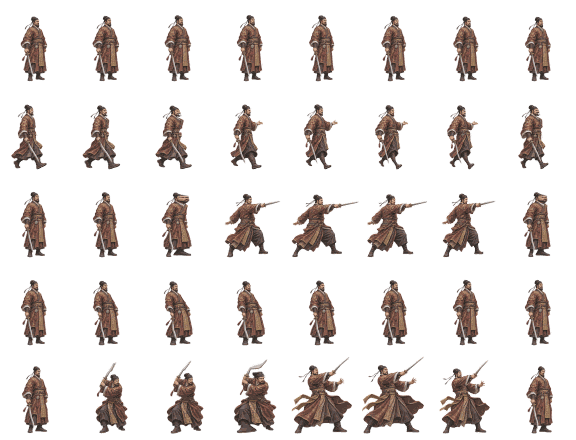
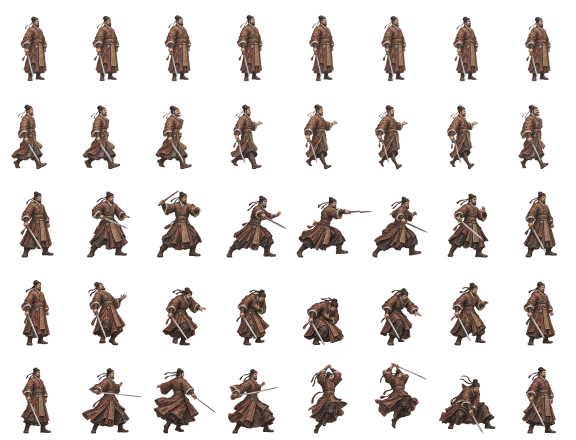
Show items still, repaint 萬震山's strike, hurt and special, and add the youth's and 求敗's art
Items: the producer wants still pictures. itemPicture always returns the
still, the hover and tap playback is gone, the 30 loops are deleted and
tools/item-art.py writes only stills.

萬震山 (Q-N34 test): his strike, hurt and special rows are repainted and
approved; idle and walk are unchanged. The pack's sheet and checksums are
updated and his game files regenerated with tools/roster-art.py.

The youth and 獨孤求敗: a character card and a sprite sheet each, in
asset-gen/story-characters/, for later (roadmap 2.3). 求敗's were made
under the old rule that he is never seen; Q-N68 asks whether to repaint
them to match the v1.0 portrait.

Claude-Session: https://claude.ai/code/session_01WcCcPMMNRDyiegqFEaWrsS

diff --git a/game/src/ui/item-art.js b/game/src/ui/item-art.js
@@ -1,86 +1,9 @@
-// Item pictures. Each item has a still (item-<id>.webp) and, painted from the same sheet, a short
-// animated loop (item-<id>-motion.webp, eight frames of about 0.8 s). A panel shows the still; the
-// loop plays while the item's row, tile or slot is pointed at or holds the keyboard focus, for two
-// turns after a tap (phones have no pointer to rest), and for as long as the item is the one
-// picked (the armory's inspector, the dice cup that was won). The loop is fetched the first time
-// it plays. With reduced motion only stills are shown.
+// Item pictures: one still each (item-<id>.webp), cut from the painted sheets by tools/item-art.py.
+// Items are shown still, never animated (the producer's decision of 2026-11-21).
 import { art } from './artwork.js';
-import { ITEMS } from '../rules/game.js';
 
-// 古墓長劍 keeps its old still picture; it has no loop.
-const STILL_ONLY = new Set(['tombSword']);
-// Where an item picture sits: the element that hovering, focusing or tapping plays it for.
-const HOSTS = '.mj-product, .fo-item, .fo-slot, .fo-inspector, .lk-lot, .equipped-card';
-const TAP_PLAY = 1700; // ms: two turns of a loop
-
-const moving = () => !globalThis.document?.body?.classList.contains('no-motion');
-
-// `live`: the picked item, which plays for as long as it is shown.
-function itemPicture(id, cls = '', live = false) {
-  const still = art('item-' + id + '.webp');
-  if (STILL_ONLY.has(id) || !ITEMS[id])
-    return '<img class="' + cls + '" draggable="false" alt="" src="' + still + '">';
-  const motion = art('item-' + id + '-motion.webp'),
-    play = live && moving();
-  return (
-    '<img class="' +
-    cls +
-    ' item-art' +
-    (live ? ' live' : '') +
-    '" draggable="false" alt="" src="' +
-    (play ? motion : still) +
-    '" data-still="' +
-    still +
-    '" data-motion="' +
-    motion +
-    '">'
-  );
+function itemPicture(id, cls = '') {
+  return '<img class="' + cls + '" draggable="false" alt="" src="' + art('item-' + id + '.webp') + '">';
 }
 
-function play(img) {
-  if (!img || !moving() || img.src.endsWith(img.dataset.motion)) return;
-  img.src = img.dataset.motion;
-}
-function rest(img) {
-  if (!img || img.classList.contains('live') || img.src.endsWith(img.dataset.still)) return;
-  img.src = img.dataset.still;
-}
-const pictureIn = (el) => el?.closest?.(HOSTS)?.querySelector('img[data-motion]') || null;
-
-// One set of listeners on the document serves every panel, however often it is redrawn.
-function watchItemArt(doc = globalThis.document) {
-  if (!doc || doc.itemArtWatched) return;
-  doc.itemArtWatched = true;
-  // A screen without hover may still report a pointer resting where the last finger was; that is
-  // not a hover, and nothing would ever move it off again.
-  const hoverless = () => globalThis.matchMedia?.('(hover: none)').matches;
-  doc.addEventListener('pointerover', (e) => {
-    if (e.pointerType !== 'touch' && !hoverless()) play(pictureIn(e.target));
-  });
-  // A finger lifted also leaves its element; a tapped picture rests on its own timer instead.
-  doc.addEventListener('pointerout', (e) => {
-    if (e.pointerType === 'touch') return;
-    const host = e.target.closest?.(HOSTS);
-    if (host && !host.contains(e.relatedTarget) && !host.matches(':focus-visible, :has(:focus-visible)'))
-      rest(host.querySelector('img[data-motion]'));
-  });
-  // Keyboard focus only: a panel redrawn under a tap may put the focus back where it was.
-  doc.addEventListener('focusin', (e) => {
-    if (e.target.matches?.(':focus-visible')) play(pictureIn(e.target));
-  });
-  doc.addEventListener('focusout', (e) => {
-    const host = e.target.closest?.(HOSTS);
-    if (host && !host.contains(e.relatedTarget) && !host.matches(':hover'))
-      rest(host.querySelector('img[data-motion]'));
-  });
-  doc.addEventListener('pointerdown', (e) => {
-    if (e.pointerType !== 'touch') return;
-    const img = pictureIn(e.target);
-    if (!img) return;
-    play(img);
-    clearTimeout(img.restTimer);
-    img.restTimer = setTimeout(() => rest(img), TAP_PLAY);
-  });
-}
-
-export { itemPicture, watchItemArt };
+export { itemPicture };

diff --git a/game/src/ui/armory-views.js b/game/src/ui/armory-views.js
@@ -12,7 +12,7 @@ const who = (u) => G.unitDetails(u).name;
 const small = (action, label, attr = '', disabled = false) =>
   btn(action, label, 'mj-action fo-action', attr + (disabled ? ' disabled' : ''));
 const grip = '<i class="fo-grip" aria-hidden="true">⠿</i>';
-const itemImage = (id, live = false) => itemPicture(id, 'fo-item-img', live);
+const itemImage = (id) => itemPicture(id, 'fo-item-img');
 const dropAttrs = (kind, destination) => 'data-drop="' + kind + '" data-dest="' + destination + '"';
 const dragAttrs = (kind, id, owner) =>
   'data-drag="' + kind + '" data-id="' + id + '" data-owner="' + owner + '" draggable="false"';
@@ -276,7 +276,7 @@ function armory(s, u, ui) {
     }
     return (
       '<section class="fo-inspector">' +
-      itemImage(v.id, true) +
+      itemImage(v.id) +
       '<div><h4>' +
       v.item.name +
       '</h4><b>' +

diff --git a/game/src/app.js b/game/src/app.js
@@ -16,7 +16,6 @@ import * as G from './rules/game.js';
 import * as P from './ui/panels.js';
 import { BattleBoard } from './scene/board.js';
 import { warmPaintedEffects } from './fx/painted-effects.js';
-import { watchItemArt } from './ui/item-art.js';
 import { FieldHud } from './ui/field-hud.js';
 import { icon } from './ui/icons.js';
 import { codexPage } from './ui/gates.js';
@@ -167,7 +166,6 @@ function refreshSound() {
   S.scene(screen === 'battle' ? state.mapIndex : null); // the battlefield's quiet ambience
   document.body.classList.toggle('no-motion', !prefs.motion);
 }
-watchItemArt(); // item pictures play while pointed at, focused or picked
 const board = new BattleBoard({
   canvas: $('board'),
   tactics: $('tactics'),

diff --git a/game/src/ui/bowl-views.js b/game/src/ui/bowl-views.js
@@ -42,7 +42,7 @@ function bowlsPage(s, mixing) {
       const label = face ? lotName(id) : '第' + n + '盅';
       // The cup that was won plays its item's loop.
       const content =
-        (face && ITEMS[id] ? itemPicture(id, '', done) : picture(face ? lotImage(id) : 'bowl-cover.webp')) +
+        (face && ITEMS[id] ? itemPicture(id) : picture(face ? lotImage(id) : 'bowl-cover.webp')) +
         '<strong>' +
         esc(label) +
         '</strong>' +

diff --git a/game/styles/09-phone-landscape.css b/game/styles/09-phone-landscape.css
@@ -1317,8 +1317,7 @@
   overflow: hidden;
   background: #ddcfac;
 }
-/* The shelf shows an item a little larger than a slot does, so its painting (and its loop, see
-   ui/item-art.js) can be made out. */
+/* The shelf shows an item a little larger than a slot does, so its painting can be made out. */
 .mj-product .mj-item-symbol:has(.fo-mini),
 .mj-product .fo-mini {
   width: 44px;

diff --git a/tools/item-art.py b/tools/item-art.py
@@ -10,10 +10,9 @@ The source sheets are transparent PNGs of 4 x 2 frames (effects 384 x 256 a fram
 
     fx-<effect>.webp         an effect sheet, still 4 x 2 frames, at 288 x 192 a frame. The board
                              draws a frame at most about 140 CSS px wide at its normal zoom.
-    item-<id>.webp           an item's still picture: its first frame, 256 x 256.
-    item-<id>-motion.webp    the same item animated, 192 x 192: all eight frames, looping, each held for the
-                             time the manifest suggests. Panels swap it in while the item is
-                             pointed at, focused or picked (game/src/ui/item-art.js).
+    item-<id>.webp           an item's still picture: its first frame, 256 x 256. Items are shown
+                             still, never animated (decision of 2026-11-21), so the other seven
+                             frames of an item sheet are not used.
 
 Which items: those the game has (read from game/src/rules/game.js), less KEEP, whose pictures
 stay as they are. Which effects: those named in game/src/fx/painted-effects.js. Nothing in
@@ -39,9 +38,7 @@ ASSETS = ROOT / 'game' / 'assets'
 KEEP = {'tombSword'}
 EFFECT_WIDTH = 1152  # 4 frames of 288 px
 ITEM_SIZE = 256  # the still
-MOTION_SIZE = 192  # the loop: the largest panel shows an item at 165 CSS px
 STILL_QUALITY = 82
-MOTION_QUALITY = 72
 EFFECT_QUALITY = 80
 
 
@@ -75,26 +72,12 @@ def convert_effect(asset: dict) -> str:
 
 
 def convert_item(asset: dict) -> str:
-    _, cells, durations = frames(asset['sheet'])
-    small = [cell.resize((MOTION_SIZE, MOTION_SIZE), Image.LANCZOS) for cell in cells]
+    _, cells, _ = frames(asset['sheet'])
     still = ASSETS / ('item-' + asset['id'] + '.webp')
-    motion = ASSETS / ('item-' + asset['id'] + '-motion.webp')
     cells[0].resize((ITEM_SIZE, ITEM_SIZE), Image.LANCZOS).save(
         still, 'WEBP', quality=STILL_QUALITY, alpha_quality=90, method=6
     )
-    small[0].save(
-        motion,
-        'WEBP',
-        save_all=True,
-        append_images=small[1:],
-        duration=durations,
-        loop=0,
-        quality=MOTION_QUALITY,
-        alpha_quality=85,
-        method=4,
-        minimize_size=True,
-    )
-    return f'{still.name} {still.stat().st_size // 1024} KB, {motion.name} {motion.stat().st_size // 1024} KB'
+    return f'{still.name} {still.stat().st_size // 1024} KB'
 
 
 def main() -> int:

diff --git a/ROADMAP.md b/ROADMAP.md
@@ -40,7 +40,7 @@ Goal: no hero starts with their strongest art; every art has a job; heroes and a
 - [x] **0.10 A briefing before 整備.** A 軍情 page before every board: a plan of the board (starting tiles, enemies by rank, the secondary's lamp or zone), the primary objective and how the board is lost, the drawn secondary and what it pays, and who answers the summons on a win. By the producer's ruling it stops there: how the enemy fights and when reinforcements come are left for the player to find on the board. Reinforcements are not on the plan (Q-N41). 整備 has a 軍情 button that reopens it, and during the fight the goals page is the same page with live progress.
 - [ ] **0.11 Battles that differ in kind.** Decided (Q-N18 to Q-N22), built in three stages (Q-N20). **Stage one, rules done:** `game/src/data/battles.js` gives each board its kind (斬將 or 殲滅), masters, extra pieces, waves and secondary pool; reinforcements are announced a round ahead; twelve kinds of secondary (`SIDE_KINDS`) pay silver, 武學點 or a manual; every non-final win brings the next hero; saves from before the change load as legacy boards. 1,169 mechanics checks pass. **Simulator done:** `tools/sim-battles.mjs` plays each kind, deploys, reads reinforcements a round ahead and has a policy for every kind of secondary. **Interface done:** entry markers that appear one round ahead and not before (switch `battleMarks`), an outline of what the arriving pieces could strike, a plaque line, tips when a wave is announced, enters or is blocked, a tip and a forecast line for the secondary, and the 軍情 page. **Stage one is complete.** Seen in a headless browser at desktop, phone portrait and phone landscape; not on a real device, and a 殲滅 board's live progress lines were not looked at. **Not started:** stage two (objects with 氣血 to destroy or defend: 空山琴臺, 襄陽殘垣, 無刻漏臺) and stage three (carry and escape: 紅楓驛, 聽雪棧, 寒玉石室). How each kind is told in the story is decided (a board's kind is where its 戰意 sits; Q-N44, Q-N26, Q-N27) and is written in 1.8.
 - [x] **0.12 Use the new villain and troop art on the existing boards.** Decided (Q-N23, Q-N24). 鳳天南 and 五虎門棍徒 arrive at 青竹渡 in round three; 張召重 and 清營刀盾兵 hold the east court of 紅楓驛; 完顏洪烈 and 趙王府弓手 arrive at 襄陽殘垣 in round four; 鮮于通 is a second master at 倒影天街 with 華山刀陣弟子; 萬震山 and 萬門劍徒 stand at 無刻漏臺. Each troop type has a trait of its own (近身失準, 盾牆, 刀陣, 斬殘). Their text is placeholder (1.7). The other five villains and their troops are kept for new stages. Art debt: Q-N34.
-- [ ] **0.13 Use the item and effect art.** `asset-gen/jianying-item-art/` holds 8 painted skill effects and 32 animated item pictures (4 × 2 frames). Decided (Q-N25): play the effects for the matching arts (all but 金蛇劍法, which is a new hero's); animate the item pictures in the shop and inventory; restore 青鋒劍; add 屠龍刀, 軟蝟甲, 九花玉露丸 and 玉蜂漿; hold 金蛇劍 and 烏蠶衣 for 袁承志 and 狄雲; use item pictures for the objects the new battle kinds need. **Done:** seven painted effects play for fourteen arts (the list is `ARTS` in `game/src/fx/painted-effects.js`; switch `paintedEffects`), timed so the painted impact lands with the numbers; every item has a new still (`item-<id>.webp`) and a loop (`item-<id>-motion.webp`) that plays in the shop, the inventory and 三盅通吃 and holds still under reduced motion; 青鋒劍 is back in the shop and 古墓長劍 keeps its own picture; 屠龍刀 (攻擊 +17, 移動 −1, 52 兩, from the fourth board), 軟蝟甲 (防禦 +4, 反刺 7), 九花玉露丸 and 玉蜂漿 are in the game. Their numbers are first guesses (Q-N35 to Q-N37). **Still to do:** item pictures as battle objects, which arrive with the second stage of 0.11. Not seen on the board yet: 歐陽鋒's 蛤蟆功 (he stands on the ninth board) and 軟蝟甲's 反刺 line in the forecast; both are covered by `check-mechanics` only.
+- [ ] **0.13 Use the item and effect art.** `asset-gen/jianying-item-art/` holds 8 painted skill effects and 32 animated item pictures (4 × 2 frames). Decided (Q-N25): play the effects for the matching arts (all but 金蛇劍法, which is a new hero's); animate the item pictures in the shop and inventory; restore 青鋒劍; add 屠龍刀, 軟蝟甲, 九花玉露丸 and 玉蜂漿; hold 金蛇劍 and 烏蠶衣 for 袁承志 and 狄雲; use item pictures for the objects the new battle kinds need. **Done:** seven painted effects play for fourteen arts (the list is `ARTS` in `game/src/fx/painted-effects.js`; switch `paintedEffects`), timed so the painted impact lands with the numbers; every item has a still picture (`item-<id>.webp`) in the shop, the inventory and 三盅通吃 (the animated loops were removed on 2026-11-21: items are shown still); 青鋒劍 is back in the shop and 古墓長劍 keeps its own picture; 屠龍刀 (攻擊 +17, 移動 −1, 52 兩, from the fourth board), 軟蝟甲 (防禦 +4, 反刺 7), 九花玉露丸 and 玉蜂漿 are in the game. Their numbers are first guesses (Q-N35 to Q-N37). **Still to do:** item pictures as battle objects, which arrive with the second stage of 0.11. Not seen on the board yet: 歐陽鋒's 蛤蟆功 (he stands on the ninth board) and 軟蝟甲's 反刺 line in the forecast; both are covered by `check-mechanics` only.
 - [ ] **0.14 Weapons earned, not bought.** The producer may set some powerful weapons aside for quests or other specific ways of earning them, instead of the shop. Not designed. Until it is, a powerful new weapon such as 屠龍刀 should be easy to move out of the shop's stock.
 - [x] **0.15 The wiki covers every mechanic, item and character.** A 戰鬥規則 section (about 120 pages): each rule word with who carries it, the twelve kinds of secondary with every board's version, growth, the in-game guide, the keys and the marks on a piece. The five new villains have pages for themselves and their arts; troop pages say where they stand and how they act; board pages list the enemy force, the reinforcements and the secondary pool; map grids mark entry tiles; hero pages name the 合璧 partner; item pages say who starts with the item. The rule words moved to `game/src/data/rule-terms.js`, which the in-game guide also reads. The two design documents carry the battle decisions as mechanics (world view v0.8, run script v0.5); how the story tells them is decided and not yet written (1.8).
 - [ ] **0.16 The font supplements are behind the text.** Found 2026-11-21 while painting the story pictures (no text was added then): `python3 tools/extra-fonts.py --check` lists characters missing from each of the four supplements (RiverSerif and RiverSans, game and wiki): about 200 before the v1.0 story, about 260 to 290 after it, the same with or without the picture work. Those characters fall back to the reader's own fonts. Rebuild the supplements with `python3 tools/extra-fonts.py` and check that they stay small.
@@ -70,7 +70,7 @@ Goal: the final battle after the five 境 (world view v1.0 §8.4). **The produce
 
 - [ ] **2.1 Design the eleventh board.** Setting, terrain, size, objective and opponents. Waiting on Q-N1, Q-N2.
 - [ ] **2.2 Build the map.** A `terrain.js` entry, a landform module in `game/src/scene/landforms/` in the style of the reworked ten, ambience and sound, and a wiki picture taken with `tools/shoot-map.mjs` (`--bare --only opening --size 1560x992`, halved).
-- [ ] **2.3 The youth's sprite sheet.** He has a portrait (`npc-youth.webp`) but no board piece. A sheet in the game's format: 8 frames per row, 144 × 176 cells, foot at y 162. Today the game reads 4 rows (idle, walk, attack, hurt); the new art pack adds a 5th row (絕技, special). Decide whether the game reads the 5th row (see 3.6). Needs a prompt in `asset-gen/prompts.md` if the producer will paint it. Waiting on Q-N3.
+- [ ] **2.3 The youth's sprite sheet.** Painted and approved (2026-11-21, Q-N3): `asset-gen/story-characters/sprites/youth.png`, in the pack's format (8 frames by 5 rows of 144 × 176, foot at y 162; idle, walk, strike, hurt, and for 絕技 the first form of 獨孤九劍), with a character card, `cards/youth.webp`. The game already reads five rows (3.6). Still to do: put it in the game with `tools/roster-art.py` (which reads the roster pack, so copy it there or point the tool at this folder) when the youth takes the field on the eleventh board (2.4). Two weak spots: his idle frames barely differ, and in the walk he carries the empty scabbard in his hand as well as the sword.
 - [ ] **2.4 The finale rules.**
   - The sixth seat: the youth placed as a piece that can be lost.
   - His skill tree is 獨孤九劍: 總訣式, 破劍式, 破刀式, 破槍式, 破鞭式, 破索式, 破掌式, 破箭式, 破氣式. Each form is unlocked across runs (for example 破劍式 after enough sword-using foes defeated). Needs a cross-run counter in the save, and must pass `node tools/check-skills.mjs`. 令狐冲's tree now holds 總訣式, 破劍式, 破箭式, 破氣式 and 獨孤九劍; the overlap is accepted (decision of 2026-11-20): the youth keeps all nine, and his forms may differ in effect.
@@ -175,7 +175,6 @@ All questions waiting on the producer. IDs are stable; do not renumber. Prefix: 
 | Q-R8 | Story | Each board's own story (why its master was chosen, which hero they have history with, whether the side objective has a reason). | Same as Q-W2. | run script §13.8 | 2026-11-20 |
 | Q-N1 | Finale | Where is the eleventh board, and who is on the far side? The design says the immortal is only ever seen from behind, with no face. On a board he would be a piece. | (a) 劍塚 or the valley stone table, the immortal as the master, drawn only from behind; (b) the master is an echo made from the ten masters; (c) no master: the board itself is the opponent and the win is placing the sixth piece. Recommendation: (a). | this roadmap, 2.1 | 2026-11-20 |
 | Q-N2 | Finale | How the eleventh board is won: defeat the master, survive, or something tied to 情, 運 and resolve (a 韋小寶 dice event, every companion alive)? | Recommendation: the youth must take the field and the party must hold until his turn; the dice and companions shape the last round. | this roadmap, 2.4 | 2026-11-20 |
-| Q-N3 | Art | Will you paint the youth's sprite sheet as you did the roster pack, or should an agent write a prompt in `asset-gen/prompts.md`? | Recommendation: an agent writes the prompt in the pack's 8 × 5 format; you paint it. | this roadmap, 2.3 | 2026-11-20 |
 | Q-N4 | Finale | Can the eleventh board be built and playtested before Volumes 2 to 4 exist (for example as a test-only start), or must the volumes come first? | Recommendation: build it now behind a test entry, then wire it to Volume 5. | this roadmap, 2.5 | 2026-11-20 |
 | Q-N5 | Enemies | How do the ten new villains enter? | (a) a random lieutenant pool per board, so a board's lieutenant changes from run to run; (b) new boards built around them; (c) replace current lieutenants. Recommendation: (a) now, (b) as new maps are made. Their bios name places that match current boards (驛站, 汀, 漏臺), which suggests (a) or (c). | this roadmap, 3.1 | 2026-11-20 |
 | Q-N6 | Connections | Should a pair's history carry a gameplay effect (a small bonus when adjacent, like a support bond), or stay dialogue only? And do you want an in-game collection of heard lines? | Recommendation: dialogue and a collection first; effects later if wanted. | this roadmap, 4.4 | 2026-11-20 |
@@ -187,13 +186,14 @@ All questions waiting on the producer. IDs are stable; do not renumber. Prefix: 
 | Q-N31 | Rules | Runs saved before the change: are heroes granted for boards already won without their secondary? | Default taken: no; the new rule applies from the next win. | battle variety spec | 2026-11-21 |
 | Q-N32 | Rules | What a met secondary pays. | Default taken: one of three, set per objective: 賞銀 of 24 + 3 per stage (24 to 51 兩), or one 武學點 to each hero who fought and is still standing, or one manual for the stores. | battle variety spec | 2026-11-21 |
 | Q-N33 | Rules | Secondaries that name a hero and an art: only 令狐冲's (fell someone with a 破招 form) exists. Add one per hero? | Default taken: only that one for now; more can be added as data. | battle variety spec | 2026-11-21 |
-| Q-N34 | Art | Three weaknesses in the ten new sprite sheets that only repainting would fix: every hurt row barely moves; every strike row holds its first three frames almost still and then jumps to the blow; and the special pose of 趙王府弓手, 鮮于通, 完顏洪烈 and 萬震山 reads as a stronger strike rather than a move of its own. 萬門劍徒 is also painted about a tenth shorter than the other troops. | (a) leave them: they read correctly at board size; (b) repaint the hurt and strike rows when the other twenty characters are prepared. Recommendation: (a) now, (b) with the next batch. | roster art | 2026-11-21 |
+| Q-N34 | Art | Three weaknesses in the ten new sprite sheets that only repainting would fix: every hurt row barely moves; every strike row holds its first three frames almost still and then jumps to the blow; and the special pose of 趙王府弓手, 鮮于通, 完顏洪烈 and 萬震山 reads as a stronger strike rather than a move of its own. 萬門劍徒 is also painted about a tenth shorter than the other troops. | (a) leave them: they read correctly at board size; (b) repaint the hurt and strike rows when the other twenty characters are prepared. Recommendation: (a) now, (b) with the next batch. **Tested 2026-11-21 at the producer's request:** 萬震山's strike, hurt and special rows were repainted with an image model (OpenAI `gpt-image-2.6-flare`, his old frames and portrait as references), approved, and are in the game; his idle and walk rows are unchanged. The method works for the other nine; whether to do them is open. | roster art | 2026-11-21 |
 | Q-N35 | Items | 軟蝟甲's 反刺: when does it prick? | (a) on every blow struck from the next tile, counters included; (b) only on the attacker's own blow, not on counters; (c) once a round. Default taken: (a), for 7 points, reduced by the striker's ward. Easy to change: one rule in `barbStrike` (`game/src/rules/game.js`). | item art | 2026-11-21 |
 | Q-N36 | Items | 屠龍刀 before 0.14 is designed: shop or held back? | (a) in the shop from the fourth board at 52 兩, 攻擊 +17 and 移動 −1; (b) out of the shop until it can be earned. Default taken: (a). To hold it back, delete its line in `MARKET_STOCK` (`game/src/rules/ferry-market.js`); the item itself stays. | item art | 2026-11-21 |
 | Q-N37 | Items | What the two new medicines do. | Default taken: 玉蜂漿 restores 30 氣血 and 20 內力 (12 兩, from the first board); 九花玉露丸 clears every condition and then restores 36 氣血 (22 兩, from the second board). The alternative is to make one of them a rarer, stronger cure found only in 三盅通吃. | item art | 2026-11-21 |
 | Q-N67 | Art | 求敗 needs a portrait. The game shows a placeholder, a black go stone on the stone table (`game/assets/npc-qiubai.webp`). | (a) you paint it from the prompt in `asset-gen/prompts.md` (A0: an old man with a white beard, stern, seated, a black stone between two fingers), 480 × 480; (b) keep the stone, so that he is never shown. Recommendation: (a). Replacing the file is all that is needed. | story rewrite (1.8) | 2026-11-21 |
 | Q-N14 | Books | Attributions the designers could not confirm from memory, written in each art's `source` as this game's reading. Do they hold? | 四象步, 春蠶掌法, 懷中抱月 and 纏身摘心刀 for 胡斐, and his learning 苗家劍法; whether 吸功入地小法 is a lesser relative of 吸星大法; 易筋經 and 令狐冲; 黑血神針 given to 任盈盈; the order of 段譽's channels; 第七層 placed after 聖火令 in 張無忌's tree. | skill redesign | 2026-11-20 |
 | Q-N9 | Art | The ten pictures of the bystanders who used to be saved (`game/assets/npc-tale-0.webp` to `npc-tale-9.webp`) are no longer used. Delete them, or keep them for 1.1? | Recommendation: keep until 1.1 decides whether side objectives get their own story. | story rewrite (PR #12) | 2026-11-20 |
+| Q-N68 | Art | The character card and sprite sheet for 獨孤求敗 (`asset-gen/story-characters/`, approved 2026-11-21) were made under the old rule that he is never seen: the card shows him from behind, the sheet hides his face under long loose grey hair, and he fights with a twig. Since v1.0 he is shown, and A0 in `asset-gen/prompts.md` describes him with a long white beard and his hair tied back. | (a) keep them as they are; (b) repaint the card and sheet to match A0, painting A0 itself (Q-N67) at the same time so that the three agree. Recommendation: (b). Nothing in the game uses them yet. | story art | 2026-11-21 |
 
 ## 6. Decisions
 
@@ -201,6 +201,8 @@ Answers from the producer, newest first. Earlier decisions are listed in §0 of 
 
 | Date | ID | Decision |
 | --- | --- | --- |
+| 2026-11-21 | — | Items are shown as still pictures, not animated. The 30 loops are removed and `tools/item-art.py` writes only the stills. |
+| 2026-11-21 | Q-N3 | The youth's sprite sheet and character card are generated by an agent with an image model, and approved (2.3). So are a card and sheet for 獨孤求敗 (but see Q-N68). |
 | 2026-11-21 | — | 「Let's implement」: the story of world view v1.0 and run script v1.0 is written into the game (1.8). |
 | 2026-11-21 | Q-N63 | 韋小寶 comes and goes because the wall of the realm is made of 求敗's 「求」 and stops only those who seek something from martial arts. He seeks nothing from them (three masters offered to teach him and he could not be bothered), so for him there is no wall: he walked in, and the door was never shut. That is also why 求敗, who sees only the accomplished, cannot see him, and why he is so easy about it: he has spent his life at home in places he had no business being. He is the answer 求敗 is looking for, standing beside the table: a man who can put things down. World view §4.6. This also answers Q-W6. |
 | 2026-11-21 | Q-N64 | Asked how he came, 韋小寶 tells a different tall story every run (a collectible). The truth is one line, at the ending: 「走進來的啊。你又沒關門。」 |

diff --git a/asset-gen/README.md b/asset-gen/README.md
@@ -8,6 +8,7 @@ planned for each pack and which decisions are waiting on the producer.
 | Path | What it holds |
 | --- | --- |
 | `prompts.md` | Prompts for the story's pictures: file name, size, where it appears. |
+| `story-characters/` | The youth and 獨孤求敗 (`qiubai`): a character card (`cards/`, 1024 × 1024) and a sprite sheet (`sprites/`, the roster pack's 8 × 5 format) each. Not in the game yet (roadmap 2.3, Q-N68). |
 | `story-art/` | Story pictures painted for the old story that the v1.0 story has no place for (`prompts.md` B4, B7). |
 | `jianying-roster-art/` | Thirty characters: a portrait and a sprite sheet each. |
 | `jianying-item-art/` | Eight skill effects and thirty-two item pictures, all animated. |
@@ -22,6 +23,8 @@ from the repository root (see the main README), not as a file.
 - `sprites/<id>.png`, 1152 × 880: 8 columns × 5 rows of 144 × 176 cells, foot at y 162. The rows
   are idle, walk, attack, hurt and special (絕技). The game's own sheets have the first four rows
   only, stored at half size; reading the fifth row is roadmap item 3.6.
+- `sprites/wanZhen.png` is not as the pack came: its strike, hurt and special rows were repainted
+  on 2026-11-21 (roadmap Q-N34), and both manifests carry the new checksum.
 - `manifest.json` gives each character's name, book, school, technique and bio. The bios were
   written for an earlier version of the story and are not to be copied into the game as they
   stand (roadmap 3.2).
@@ -48,5 +51,5 @@ a suggested time for each frame.
   袁承志 and 狄雲. The producer may later set some powerful weapons aside for quests rather than
   the shop (roadmap 0.14).
 - In the game: seven effects are `game/assets/fx-<name>.webp` (which art plays which is `ARTS` in
-  `game/src/fx/painted-effects.js`); each item is a still `item-<id>.webp` and a loop
-  `item-<id>-motion.webp`, both cut from these sheets by `tools/item-art.py`.
+  `game/src/fx/painted-effects.js`); each item is a still `item-<id>.webp`, the first frame
+  of its sheet, cut by `tools/item-art.py`. Items are shown still, so the other frames are not used.
